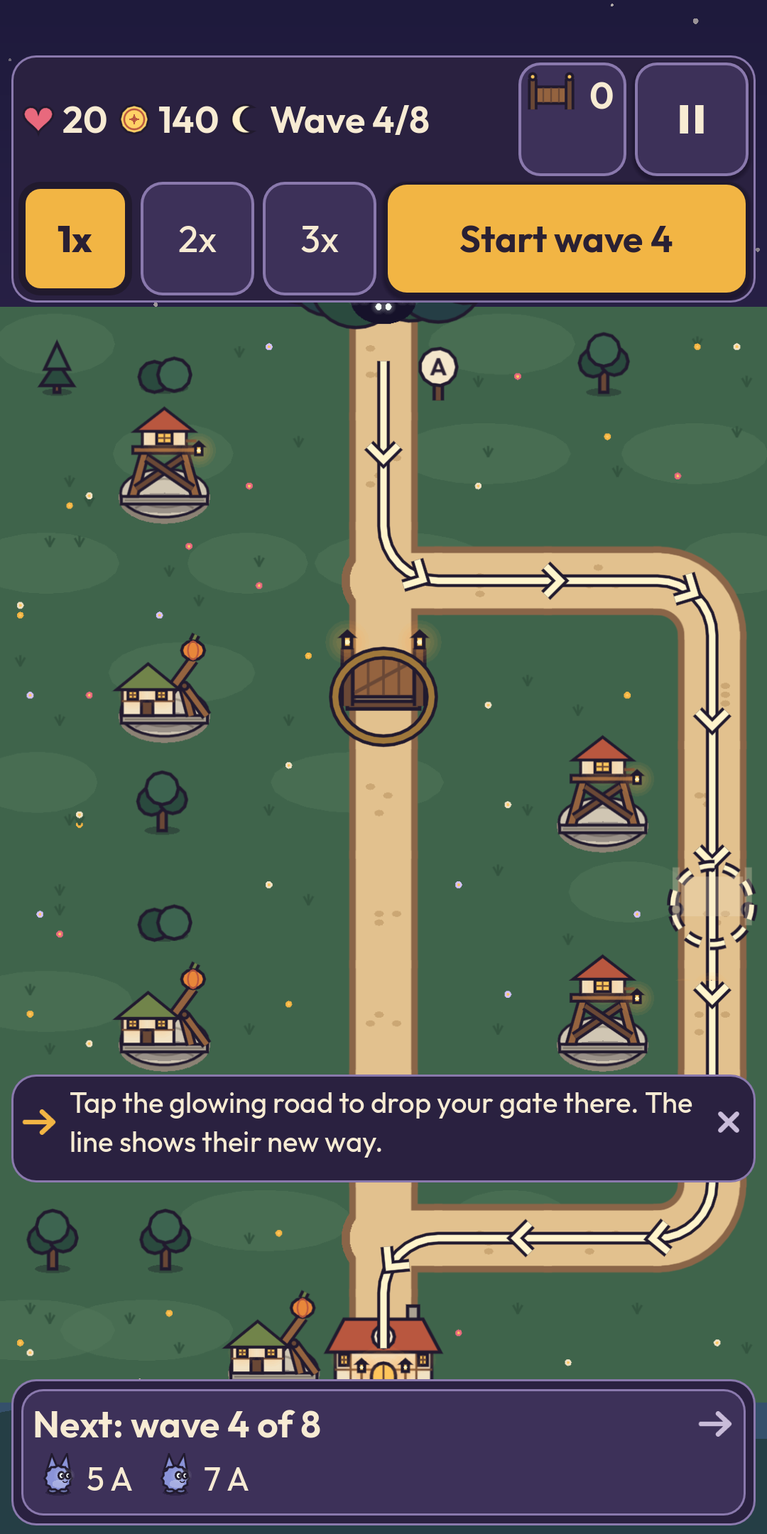
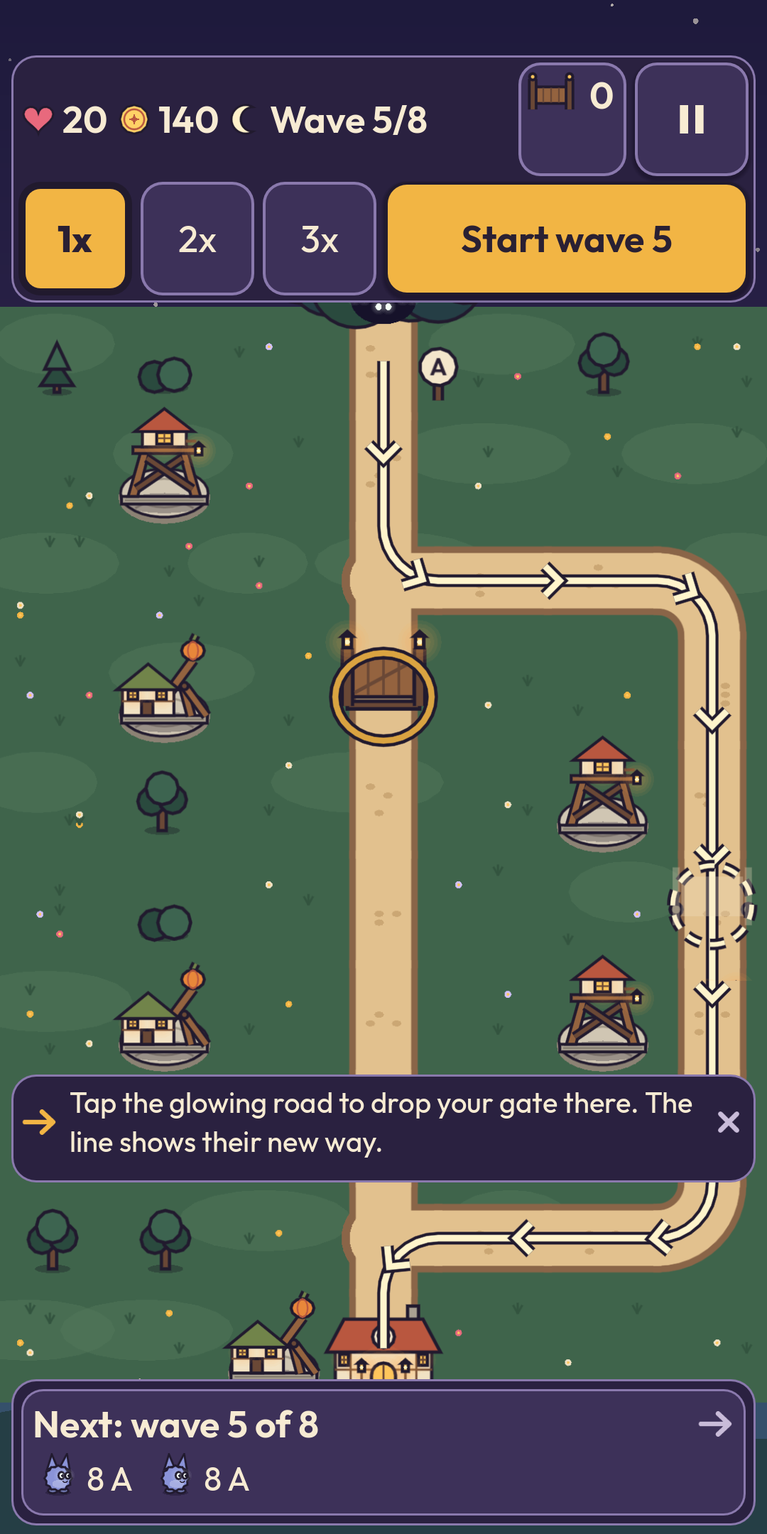
Store screenshots with the new shots; contract and release notes
- Store screenshots regenerated with the final shot effects. The wave
  picture now comes from level 3-2, wave 6: five tower kinds, a pumpkin
  with its splash ring, a firework burst and pebbles in flight, with
  creatures spread along two roads. The tool picks the busiest frame and
  fails if no frame reaches its minimum score.
- docs/ARCHITECTURE.md: the wave start save (5.1, 6, 3.6), the shot
  polish (3.2, 9.3) and the release presets and checks (7.2, 7.6).
- docs/release.md: GitHub test builds stay debug signed for now, so
  testers keep installing over earlier builds. The release APK is for
  checking the release build on a phone.

diff --git a/docs/ARCHITECTURE.md b/docs/ARCHITECTURE.md
@@ -1,6 +1,6 @@
 # Forkline: Architecture
 
-Owner: architect. Status: revised for phase 7, and brought up to the built sim (S1), the run code (R1, R2), the saves (S2), the run segments (L4), the Twist and run screens (U2), the rules alignment (G1), the run tuning (G3), the security fixes (S4, R4, S5) and the ceilings on stacked effects (S6, S7), 2026-10-25; then to the perk rule (G5, R5), the QA round 3 fixes (docs/reviews/qa-2026-10-26.md), the Fold5 frame times (V2) and the shot rework (commit a68c16c), 2026-10-26; then section 13 marked up to B5, with what is in progress or next, 2026-10-27.
+Owner: architect. Status: revised for phase 7, and brought up to the built sim (S1), the run code (R1, R2), the saves (S2), the run segments (L4), the Twist and run screens (U2), the rules alignment (G1), the run tuning (G3), the security fixes (S4, R4, S5) and the ceilings on stacked effects (S6, S7), 2026-10-25; then to the perk rule (G5, R5), the QA round 3 fixes (docs/reviews/qa-2026-10-26.md), the Fold5 frame times (V2) and the shot rework (commit a68c16c), 2026-10-26; then section 13 marked up to B5, with what is in progress or next, and brought up to the wave start save (QA 2026-10-27 m1), the shot polish and the release build (P2), 2026-10-27.
 
 This is the contract every agent builds against: folders and owners, ids and data files, every public class with its methods and data shapes, routing, saves, resume, orientation, outbound links, the performance budget, the tests and the build plans for phase 5 (section 11) and phase 7 (section 13). Do not invent a public method that another area must call. If you need a change here, put it in your report for the DM.
 
@@ -895,7 +895,7 @@ func _process(delta: float) -> void:
 
 - Render and UI only read `Battle` fields and the state objects. Player actions are command calls made between frames, so each lands between two ticks.
 - Drawing between ticks: `lerp(Vector2(prev_pos), Vector2(pos), alpha)`, scaled from sub-units to map pixels.
-- A hit lands in the sim on the tick the tower fires. The render draws a projectile from the tower toward `at` and may hold the hit flash or the puff until it arrives (RULES 5.2). Lobbed and burst shots land on `at`, the spot the sim hit; other shots follow their creature while it is still on the map (9.3). The creature hit may already be gone from the state.
+- A hit lands in the sim on the tick the tower fires. The render draws a projectile from the tower toward `at` and may hold the hit flash or the puff until it arrives (RULES 5.2). Lobbed and burst shots land in a splash or burst centered on `at`, the spot the sim hit, though the shot itself comes down up to 0.35 of the splash radius from it, toward its creature; other shots follow their creature while it is still on the map (9.3). The creature hit may already be gone from the state.
 - Inspect panels call the query methods every frame while open. That is cheap.
 - On a fold or any resize only the layout changes (7.5).
 
@@ -1229,7 +1229,8 @@ func alpha() -> float                                  # 0 to 1: how far between
 func reset() -> void                                   # drops the leftover time
 
 class_name BattleScreen extends ScreenFrame            # src/ui/battle_screen.gd: map, HUD, panels, input
-signal save_requested()                                # a build phase began, a card was picked, the HUD pause button paused the game, or Pause opened
+signal save_requested()                                # a build phase began, a wave started or was called early (step 4), a card was picked,
+                                                       # the HUD pause button paused the game, or Pause opened
 signal ended(result: Dictionary)                       # won, lost, or abandoned from Pause after a confirm (then won is false). result is
                                                        # Battle.result() plus "abandoned", "relaxed" and "twist" (the battle has Twist effects)
 signal left()                                          # "Back to menu" in Pause; the game stays saved
@@ -1268,7 +1269,7 @@ App flow:
 1. **Launch.** `GameData.load_from()`. If it has problems, show the damaged message and stop. Load settings, progress and the saved games (an invalid one is deleted), and the daily record (U3). Create the AudioService (3.8). Apply `UiTheme.build()`. Show the front door. Set `get_tree().quit_on_go_back = false`.
 2. **Play** opens ModeScreen. When any game is saved, the Continue card on top resumes the most recent one in one tap. A saved game also resumes from its own way in: the Roguelite or Daily button, or the saved level's card. Playing a different campaign level or Twist while one is saved asks first; a level and its own Twist count as different, since `SavedGame` has a `twist` flag. If the player confirms, the saved game ends as if abandoned from Pause, and nothing is recorded (RULES 4.10). Roguelite and Daily stay locked until `runs_open()`. Until U3 (section 13) sets `App.RUNS_BUILT` true, the Roguelite and Daily cards are locked with "Coming in a later update." whatever the stars, and tapping them does nothing. Until then the App also starts no run or daily, loads no daily record and resumes no saved run or daily, though `SaveStore.load_games()` loads and checks them.
 3. **Battle.** A campaign level: `Battle.create(level, catalog, relaxed, effects)`, where `effects` is the level's `twist_effects` when playing its Twist and empty otherwise. A normal run (phase 7): the App draws the seed (3.4), then `RunSession.start(seed, "", relaxed, game.run.pool(progress.unlock_counters()), game.run, game.catalog)`. The daily: `RunSession.start(RunSeeds.daily_seed(today), today, false, game.run.card_ids(), game.run, game.catalog)`, where `today` is `RunSeeds.day_key(Time.get_date_dict_from_system())`. Then `BattleScreen.setup()`, and for a run or daily `set_run()`, after which every call of the next wave goes through `run.start_next_wave()`. Every battle starts at 1x, a resumed one too (Bart, hard stop B). A resumed game opens paused, on the Pause menu.
-4. **Saving.** On `save_requested` the App saves that mode's game. A new level is also saved as soon as its battle opens. `NOTIFICATION_APPLICATION_PAUSED`, `NOTIFICATION_APPLICATION_FOCUS_OUT` and `NOTIFICATION_WM_CLOSE_REQUEST` call `leave_app()`. With a game open, it calls `battle_screen.pause_for_leave()`. During a wave with no Pause menu up, whether the clock runs or only the HUD's Paused strip holds it, that opens the Pause menu, whose `save_requested` saves the game at that tick (QA 2026-10-26, p1). Otherwise (a build phase, Pause already open, or a first sight card holding the wave) the App saves the game itself, and a card that holds the wave opens Pause when it closes. Settings and progress save when they change.
+4. **Saving.** On `save_requested` the App saves that mode's game. A new level, run or daily is also saved as soon as its battle opens. The HUD's call button is the only way to start a wave or call one early. When the battle takes the call, the HUD sends `wave_started` (BattleHud, internal to src/ui/) and BattleScreen sends `save_requested`, before any tick runs, so the save holds the moment the wave started. A refused call saves nothing (QA 2026-10-27 m1, section 6). `NOTIFICATION_APPLICATION_PAUSED`, `NOTIFICATION_APPLICATION_FOCUS_OUT` and `NOTIFICATION_WM_CLOSE_REQUEST` call `leave_app()`. With a game open, it calls `battle_screen.pause_for_leave()`. During a wave with no Pause menu up, whether the clock runs or only the HUD's Paused strip holds it, that opens the Pause menu, whose `save_requested` saves the game at that tick (QA 2026-10-26, p1). Otherwise (a build phase, Pause already open, or a first sight card holding the wave) the App saves the game itself, and a card that holds the wave opens Pause when it closes. Settings and progress save when they change.
 5. **End.** On `ended` the App deletes that mode's saved game, then records and saves. A won campaign level records its stars (`Progress.record_level`). A won Twist, on Normal or Relaxed, records the Twist (`Progress.record_twist`) and no stars. A run or daily records the counters, and a daily the daily record (U3). Then EndPanel shows for a campaign level or Twist, and RunEndPanel for a run or daily (U3). An abandoned game shows no end panel: the App goes back to the front door. An abandoned campaign level or Twist records nothing. An abandoned run or daily counts as lost at its current wave (RULES 14.7). For a run or daily, from `run.result()` (RULES 14.6): `raise(&"best_run_wave", reached)`; on a win `bump(&"runs_won", 1)`, also `bump(&"runs_won_normal", 1)` when not Relaxed, and `bump(&"risky_wins", 1)` when `risks` is 3 or more; for a daily, won, lost or abandoned, `bump(&"dailies_finished", 1)` and `DailyRecord.record_finish(run.day, result)` with `won`, `waves` and `lives` from `run.result()`.
 6. **Back button.** One press does exactly one step. `handle_back()`: close or answer the top modal first (a first sight card closes whole and counts as read), then go back one screen. A page opened from a modal, such as About from Settings, goes back before that modal closes. In a battle, an open build, tower or creature panel closes first, and the next press opens Pause. In the short wait between a battle's end and its end panel, a press shows the panel at once. On the front door or the damaged message, quit; everything is already saved. `handle_back()` returns `&"modal"` for a closed modal, a closed battle panel, Pause opening, or the end panel shown at once. A back press from the go-back notification and one from `ui_cancel` go through one entry that ignores a second press within 150 ms.
 7. **Resize.** The App connects its viewport's `size_changed` and calls `apply_layout(window, safe)` with `Layout.safe_rect()`, which lays out every screen and modal (7.5).
@@ -1450,7 +1451,7 @@ All in `user://` (the app's private storage, removed on uninstall). Each may hav
 |---|---|---|---|
 | settings.json | sound on or off | when it changes | 4 KB |
 | progress.json | star bits per level, Twists won, seen ids, counters | when any of it changes | 64 KB |
-| game_level.json, game_run.json, game_daily.json | one saved game per mode (Bart, hard stop A), at the exact moment | when a new level opens, when a build phase begins, after a card pick, when the HUD pause button pauses the game, when Pause opens, on focus loss, app pause and close request, and when leaving the battle. Deleted when that game ends. | 1 MB each |
+| game_level.json, game_run.json, game_daily.json | one saved game per mode (Bart, hard stop A), at the exact moment | when a new level, run or daily opens, when a build phase begins, when a wave starts or is called early, after a card pick, when the HUD pause button pauses the game, when Pause opens, on focus loss, app pause and close request, and when leaving the battle. Deleted when that game ends. | 1 MB each |
 | daily.json (phase 7) | the day's best daily result and the streak | when a daily ends | 4 KB |
 
 Writes are synchronous on the main thread. The largest file is under 100 KB in the biggest wave, a few milliseconds to write. A write whose text equals the last text written to that file is skipped.
@@ -1559,8 +1560,8 @@ Ceilings are far above anything a real player reaches. Counters saturate at thei
 Bart chose the exact moment (hard stop A).
 
 - Leaving the app always saves: focus loss and app pause come first, even when the app is later swiped away or killed in the background (3.6, step 4).
-- After a forced stop with the app still in front, which brings no focus loss or app pause, the game resumes from its last save (5.1), by design, as Bart was told on 2026-10-26 (QA 2026-10-26, q1).
-- The saved game holds the whole battle: creatures, timers, towers, gates, gold, lives and effects (5.6). Killing the app undoes nothing, so it cannot dodge a run loss or retry a daily.
+- After a forced stop with the app still in front, which brings no focus loss or app pause, the game resumes from its last save (5.1), by design, as Bart was told on 2026-10-26. During a wave that save is the start of the wave that was running, or a later early call or pause, so the wave comes back with the build it started with, never in the build phase before it. In a build phase it is that build phase, without the changes made since its last save. So a crash or an out of memory kill cannot replay a wave with a different build, but it can lose the seconds played since the last save, at most since that wave began (QA 2026-10-26 q1, 2026-10-27 m1).
+- The saved game holds the whole battle: creatures, timers, towers, gates, gold, lives and effects (5.6). Killing the app cannot dodge a run loss or retry a daily: it can only lose the play since the last save point.
 - On launch the App loads every saved game. The Continue card resumes the most recent one; each mode's own way in resumes that mode's game (3.6, step 2). A resumed game opens paused, on the Pause menu.
 - tests/sim/ proves it: snapshot at many ticks on levels with every creature, tower and effect, restore, play on, and compare with an uninterrupted run (section 10).
 
@@ -1585,6 +1586,7 @@ Checked in the Godot 4.7.2 source [11] [12] and in the installed release templat
 - `display/window/size/resizable` becomes `android:resizeableActivity`. The project default is true.
 - The game activity declares `configChanges` 0x3ff4: `orientation`, `screenSize`, `smallestScreenSize`, `screenLayout`, `density`, `uiMode`, `keyboard`, `keyboardHidden`, `navigation`, `locale`, `layoutDirection`. So rotation, fold and unfold resize the running game. The activity and the engine are not recreated. Only `fontScale` is missing: a change of the system font size recreates the activity, and the save brings the player back.
 - `screen/immersive_mode` defaults to true, `screen/edge_to_edge` to false.
+- The two release presets (P2, 7.6) export through Godot's Gradle build, from the Android source template in the same export templates. Their manifest holds the same values: checked with `aapt2 dump xmltree` on the P2 release APK on 2026-10-27 (target 36, portrait, resizeable, `appCategory` game, `configChanges` 0x3ff4, `allowBackup` false, no permissions, not debuggable). scripts/check_aab.sh and `scripts/check_apk.sh --release` check these values in the built files (7.6).
 
 ### 7.3 What this means for Forkline
 
@@ -1656,6 +1658,8 @@ project.godot (DM):
 
 export_presets.cfg (release-engineer):
 
+- Three presets: `Android`, the debug APK (scripts/build.sh); and since P2, `Android Release AAB`, the app bundle for Play, and `Android Release APK`, a signed release APK for side loading. The two release presets use Godot's Gradle build (`gradle_build/use_gradle_build=true`; scripts/build_release.sh). All three share the package and version, ship arm64-v8a native code only, and use every setting below.
+- Signing (Bart, 2026-10-27): Play App Signing. Google will hold the app signing key. The release files are signed with an upload key that stays outside the repo; docs/release.md says where it lives and how it is backed up. export_presets.cfg holds no keystore path, user or password. scripts/build_release.sh passes the key to Godot through `GODOT_ANDROID_KEYSTORE_RELEASE_PATH`, `GODOT_ANDROID_KEYSTORE_RELEASE_USER` and `GODOT_ANDROID_KEYSTORE_RELEASE_PASSWORD`, set only for the export commands, and never prints the password. git ignores android/, where the build script installs Godot's Android build template, and build/.
 - `include_filter="LICENSE, NOTICE, data/*, src/theme/fonts/OFL.txt"`. LICENSE, NOTICE and the font license ship as plain files that About reads, and every data JSON ships.
 - `exclude_filter="tools/*, tests/*, docs/*, prototypes/*, scripts/*"`.
 - The font ships as Godot's imported font resource, which keeps the TTF's bytes unchanged, with OFL.txt beside it as a plain file. The raw .ttf is not added a second time (DM, 2026-10-23, recorded in CLAUDE.md, as in SumUp).
@@ -1670,7 +1674,10 @@ export_presets.cfg (release-engineer):
 - `gradle_build/target_sdk` and `min_sdk` empty (36 and 24).
 - `user_data_backup/allow=false` and `package/retain_data_on_uninstall=false`. The app never sends saves anywhere, and they go with an uninstall. Cloud and adb backup are off, but some phones can still move app files in a device to device transfer [7] (security review N5).
 - No permissions.
-- The APK check (scripts/check_apk.sh) confirms: `targetSdkVersion` 36, `screenOrientation` 1, `resizeableActivity` true, `appCategory` game, `configChanges` including 0x1d80 (orientation, screenLayout, screenSize, smallestScreenSize, density), no `uses-permission`, `assets/LICENSE`, `assets/NOTICE` and `assets/src/theme/fonts/OFL.txt` inside, and every file under data/ inside.
+- The APK check (scripts/check_apk.sh) confirms: `targetSdkVersion` 36, `screenOrientation` 1, `resizeableActivity` true, `appCategory` game, `allowBackup` false, `configChanges` including 0x1d80 (orientation, screenLayout, screenSize, smallestScreenSize, density), no `uses-permission`, arm64-v8a native code only, the package and the version of export_presets.cfg, `assets/LICENSE`, `assets/NOTICE` and `assets/src/theme/fonts/OFL.txt` inside, and every file under data/ inside.
+- `scripts/check_apk.sh --release` makes the same checks on the release APK, and fails it when it is debuggable or signed with the Android debug certificate.
+- scripts/check_aab.sh makes the same checks on the bundle, where the game files sit in its install time asset pack. It also fails a bundle that is debuggable, unsigned, signed with the debug certificate, or whose signature does not verify, and one not signed with the upload key when the key's folder is on the machine.
+- scripts/check_secrets.sh fails when a file git tracks, or would add, is a key file or holds a keystore path, user or password, or the upload password. build_release.sh runs it before it builds.
 
 ### 7.7 Sources
 
@@ -1750,7 +1757,7 @@ These Fold5 numbers are the budget. The dev PC number is only an early warning.
 - The static map (`MapArt.draw_ground`) is drawn once into its own layer and redrawn only on a resize of the cell size. Gates, route lines and highlights draw on their own small layers.
 - Every tower look, creature frame, status mark, gate look and shot piece is drawn once with `Silhouettes`, `MapArt` or `ShotPieces` into one sheet, `MapAtlas` (src/render/map_atlas.gd). The sheet is drawn again only when a new look joins it or the map's scale on screen calls for a different sharpness. A tower or a creature is one pooled `Sprite2D`, a region of that sheet. Each frame it only moves. Its region changes with its look or animation frame, and a tower grows in when it is built and kicks back for a moment when it fires.
 - Health bars for hurt creatures, with the drowsy, bubble and boost marks, are one overlay node (`MapStatus`). Shots and their short marks are another (`MapShots`). Each is redrawn every frame while it has something to show.
-- Shots (the shot rework, commit a68c16c, 2026-10-26). `MapShots` draws every shot and mark as tinted, scaled and turned quads of the sheet, so a frame of shots batches into very few draw calls. The pieces are `ShotPieces` (src/render/shot_pieces.gd), added to the sheet as `MapAtlas.Kind.PIECE` entries by `MapAtlas.add_shot_pieces()`, which loops over `ShotPieces.Piece.size()`. Each shot has a launch mark at the tower (`MapShots.Fx.MUZZLE`), a body with a short trail, and a landing mark. A catapult's lobbed shot (`MapShots.Look.PUMPKIN`, `JAM`, or `PRIZE` for the `prize_pumpkin` path) shows its tower's real splash area on the ground while it flies and lands in a splash of that size (`Fx.SPLASH`). Lobbed and burst shots fly to the `at` of their `fired` event, the spot the sim hit; other shots follow their creature while it is on the map (3.2). A tower kicks back when it fires, by an amount set per shot look, and most looks also lean the tower away from its first target. At most 96 shots and 90 marks; a new one drops the oldest. Render only: the sim and its `fired` events did not change, and hits still land on the tick a tower fires.
+- Shots (the shot rework, commit a68c16c, 2026-10-26). `MapShots` draws every shot and mark as tinted, scaled and turned quads of the sheet, so a frame of shots batches into very few draw calls. The pieces are `ShotPieces` (src/render/shot_pieces.gd), added to the sheet as `MapAtlas.Kind.PIECE` entries by `MapAtlas.add_shot_pieces()`, which loops over `ShotPieces.Piece.size()`. Each shot has a launch mark at the tower (`MapShots.Fx.MUZZLE`), a body with a short trail, and a landing mark. A catapult's lobbed shot (`MapShots.Look.PUMPKIN`, `JAM`, or `PRIZE` for the `prize_pumpkin` path) shows a dashed ring of its tower's real splash radius on the ground while it flies, and lands in a splash of that size (`Fx.SPLASH`). Since the shot polish (2026-10-27, QA 2026-10-27 p1 and p2), the shots that land on a spot (`MapShots.lands_on_spot()`: the catapult's three looks and the Firework Tower's `ROCKET` and `BLOOM`) slide toward their creature, which walks on while they fly, but stay at most `MapShots.AIM_REACH` (0.35) of the splash radius from the `at` of their `fired` event, the spot the sim hit (`aim_at()`). The splash or burst they land in, with its ring, is centered on that spot at the real radius, and its splat, chunks or flash come down where the shot did. A burst is made when its rocket lands. Other shots follow their creature while it is on the map (3.2). A single-target hit mark (`Fx.HIT`, which rockets and blooms also leave on their creature) lasts 0.18 s. Apart from an arrow that shows stuck there, it reaches at most 0.15 of a cell from where it lands, 0.19 for the Giant Bow and the Skyrocket (`hit_reach()`), so it is narrower than the smallest creature (0.4 of a cell). Flights: lobbed shots 0.11 to 0.17 s, rockets and blooms at most 0.13 s. A tower kicks back when it fires, by an amount set per shot look, and most looks also lean the tower away from its first target. At most 96 shots and 90 marks; a new one drops the oldest. Render only: the sim and its `fired` events did not change, and hits still land on the tick a tower fires.
 - Sparkle puffs use pooled one-shot `CPUParticles2D` emitters (simulated in C++, predictable in the Compatibility renderer).
 - No `Light2D`, no screen-reading shaders (`SCREEN_TEXTURE`, `BackBufferCopy`), no full-screen transparent layers beyond one sky gradient. Keep shared materials, so the Compatibility renderer can batch.
 - Inside the sim: each tower keeps the list of road cells in its reach, rebuilt only when towers change. Walkers are bucketed by cell each tick, so targeting checks nearby creatures, not all of them. Flyers, being few, are checked directly.
@@ -1925,6 +1932,9 @@ From wave 5 the work is the rest of the two loops. The DM starts each step when 
 | **QA3** | qa-reviewer, then the ui, render and audio engineers (done 2026-10-26, commit 54c17df) | QA round 3, the first pass on the Fold5 (docs/reviews/qa-2026-10-26.md), and its polish fixes: a fold or leaving the app mid-wave always lands on the Pause menu (7.5), a creature that puffs away at a pause no longer stays drawn, audio plays only while the app is in front, hovered buttons draw as normal, and the gesture margin (7.4) | L8 | tests/ui/test_qa_round3.gd, and new cases in tests/render/test_map_view.gd and tests/audio/test_audio_service.gd |
 | **The shot rework (commit a68c16c)** | render-engineer (done 2026-10-26) | Bart's ask after playing on his Fold5: every tower's shot easy to see, the catapult first. Launch, body and landing marks, the catapult's true splash area, and shots drawn from the atlas in one batch, at most 96 (9.3). Render only. | V1 | tests/render/test_shot_marks.gd |
 | **B5** | balance-analyst (done 2026-10-26, commit 7062475) | The run report on 200 seeds that confirms G5, R5 and L8 (docs/balance/runs-2026-10-27.md). The campaign checks below come from B3 and B4b. Also the most crowded moment across all levels, Twists and run packs with the largest risk card: 2-2, wave 10 called early over wave 9, 116 live, written as a saved game for the phone (9.4). | G5, R5, L8 | every bar of RULES 14.8 and 15 met but two misses inside noise, accepted with no tuning change; the saved game file |
+| **P2** | release-engineer (done 2026-10-27, commit 37ef65a) | Phase 9, approved by Bart on 2026-10-27: Play App Signing with an upload key that stays outside the repo, and two release presets on Godot's Gradle build, the app bundle (AAB) for Play and a signed release APK (7.6). Play Console still waits for the DUNS number. | Bart's approval | a signed release AAB and APK; scripts/check_aab.sh, `scripts/check_apk.sh --release` and scripts/check_secrets.sh pass |
+| **The wave start save** | ui-engineer (done 2026-10-27, commit pending) | QA 2026-10-27 m1: starting a wave or calling one early is a save point, so a forced stop with the app in front comes back inside the wave that was running, never in the build phase before it (3.6 step 4, 5.1, section 6) | QA4's report | tests/ui/test_wave_start_save.gd |
+| **The shot polish** | render-engineer (done 2026-10-27, commit pending) | QA 2026-10-27 p1 and p2: hit marks narrower than the smallest creature and quicker, pumpkins and rockets that come down on their creature while their splash area stays on the spot the sim hit, and shorter flights (9.3). Render only. | QA4's report, the shot rework | tests/render/test_shot_marks.gd |
 
 In progress or next (2026-10-27):
 
@@ -1932,7 +1942,6 @@ In progress or next (2026-10-27):
 |---|---|---|---|---|
 | **QA4** | qa-reviewer | Runs and the daily on the Fold5, including the checks for a run and a daily in the list below. Round 3 left them out to keep Bart's records unchanged. | QA3 | a QA report in docs/reviews/ |
 | **The Fold5 rerun** | render-engineer | V2 again at the most crowded moment B5 found: 2-2, wave 10 called early over wave 9, 116 live, from B5's saved game. Both screens at 3x and a fold mid-wave (9.4), with the draw calls since the shot rework (9.1). If the sim's 99th percentile tick is over 2 ms, the sim engineer speeds up the sim first (9.2). | B5, the shot rework | the numbers within 9.2, in its report |
-| **P2** | release-engineer | Phase 9: the upload key and the app bundle (AAB) build, approved by Bart on 2026-10-27. Play App Signing, with an upload key that stays outside the repo. Play Console still waits for the DUNS number. | Bart's approval | a signed release AAB and APK, and `scripts/check_apk.sh --release` passes on the APK |
 
 Phase 7 is done when:
 

diff --git a/docs/release.md b/docs/release.md
@@ -82,7 +82,7 @@ The script does what `build.sh` does (version check, import with retries, a priv
 | File | What it is |
 |---|---|
 | build/forkline-release.aab | The app bundle that Play Console takes. Signed with the upload key. |
-| build/forkline-release.apk | A release APK for side loading and the GitHub release. Same key, native code compressed. |
+| build/forkline-release.apk | A release APK for checking the release build on a phone. Same key, native code compressed. It is not attached to GitHub test builds (see below). |
 
 Both have package `io.github.bartbasi.forkline`, version code and name from `export_presets.cfg` (now 1 and 0.1), arm64-v8a only, no permissions, and the same immersive and portrait settings as the debug APK. The bundle keeps the game files in an install time asset pack (`assetPackInstallTime/assets/`), which is how Godot lays out a Gradle bundle.
 
@@ -243,7 +243,7 @@ Each verified milestone gets a public pre-release with the APK attached. The ful
    sha256sum forkline-debug.apk > forkline-debug.apk.sha256
    ```
 2. Tag name: `v0.1-testN`, where N counts the test builds (`v0.1-test1`, `v0.1-test2`, ...). The tag points at the verified commit.
-3. Write the release notes to a file: what changed, and that this is a debug signed test build, not a store release. Debug builds are signed with the Android debug key. Release signing is ask first and has not been approved.
+3. Write the release notes to a file: what changed, and that this is a debug signed test build, not a store release. GitHub test builds stay debug signed, with the Android debug key, for now. That way testers can keep installing over earlier test builds and keep their progress, because a build signed with a different key would not install over them. Whether GitHub ever carries release signed builds is a later decision for Bart.
 4. Create the release. Use the full 40 character sha of the verified commit for `--target`:
 
    ```bash

diff --git a/docs/store/listing.md b/docs/store/listing.md
@@ -101,7 +101,7 @@ All made by code. Rerun the tools to change them (see docs/release.md).
 
 The order puts the fork and the gate first, because that is what is new: the build phase with its route line (steer them with gates), the wave (watch it play out), the campaign (24 levels, three stars each), the mode screen (campaign, roguelite and daily), and the front door.
 
-The screenshots are the real app, run in a window at phone size with its real data and the sound off. The gold on the build and wave screens was topped up so the picture shows a full defense. Screenshot 5 shows the Buy me a coffee row on the front door. Bart decided on 2026-10-27 to keep it there (see the known risk below). The wave picture (slot 2) is the busiest frame of a wave, picked by the tool: creatures on the road, tower shots in the air and sparkles from beaten creatures, so the new shot effects show.
+The screenshots are the real app, run in a window at phone size with its real data and the sound off. The gold on the build and wave screens was topped up so the picture shows a full defense. Screenshot 5 shows the Buy me a coffee row on the front door. Bart decided on 2026-10-27 to keep it there (see the known risk below). The build picture (slot 1) is level 1-2, The Fork, before wave 5. The wave picture (slot 2) is level 3-2, Puffball Pond, in wave 6, with five tower kinds built. It is the best frame of the wave, picked by the tool: creatures spread along the road, a Pumpkin Catapult shot with its dashed splash ring, at least two other kinds of shot in the air, and sparkles from beaten creatures.
 
 Phone screenshots are 1080 x 2160, the tallest shape Play accepts (twice as tall as wide). The app has no separate tablet layout beyond its landscape layout, so no tablet screenshots are listed. If Play Console asks for large screen screenshots, take them on the Fold5's inner screen (see docs/release.md).
 
